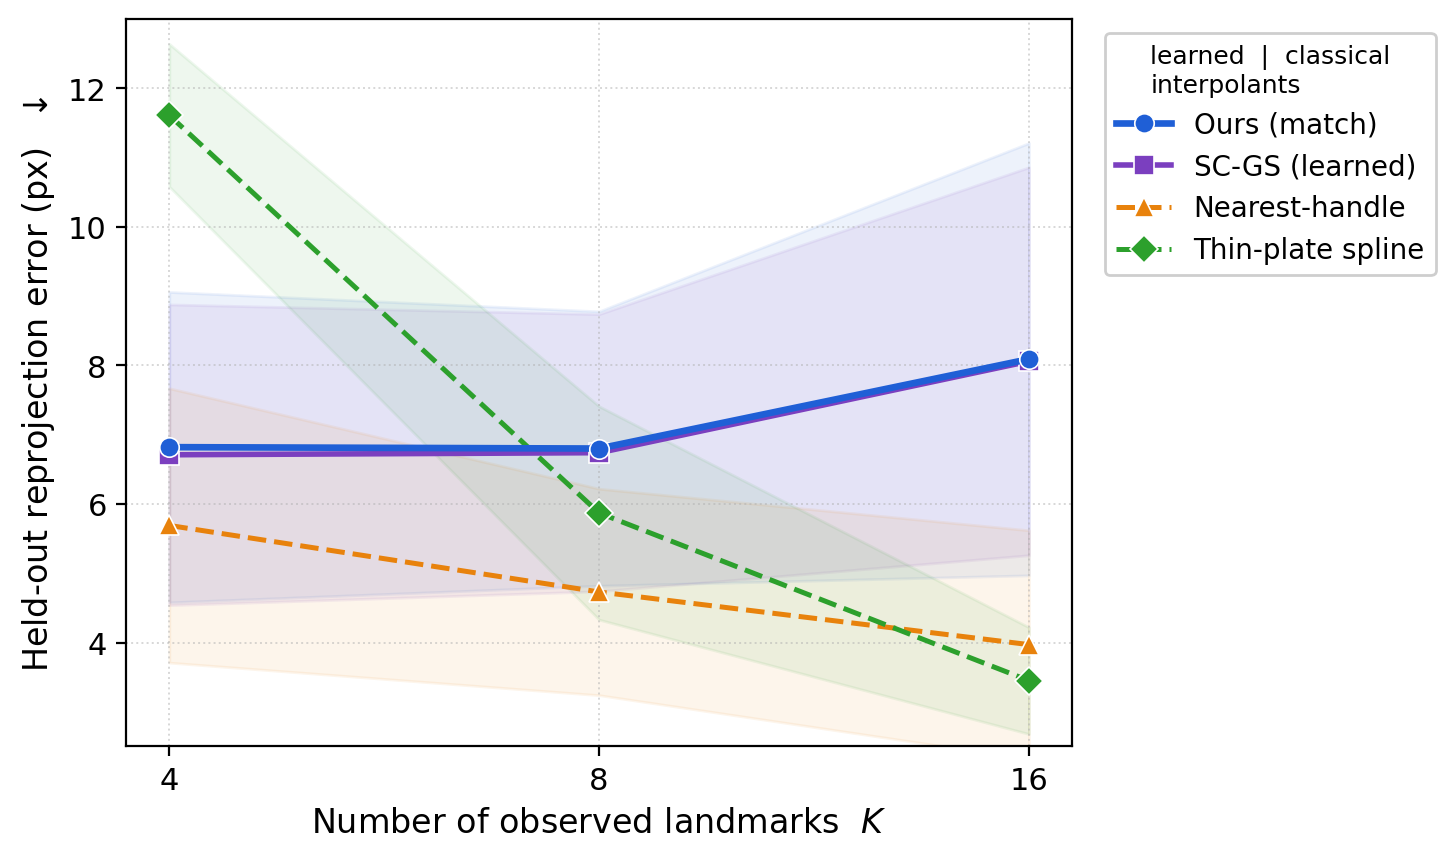
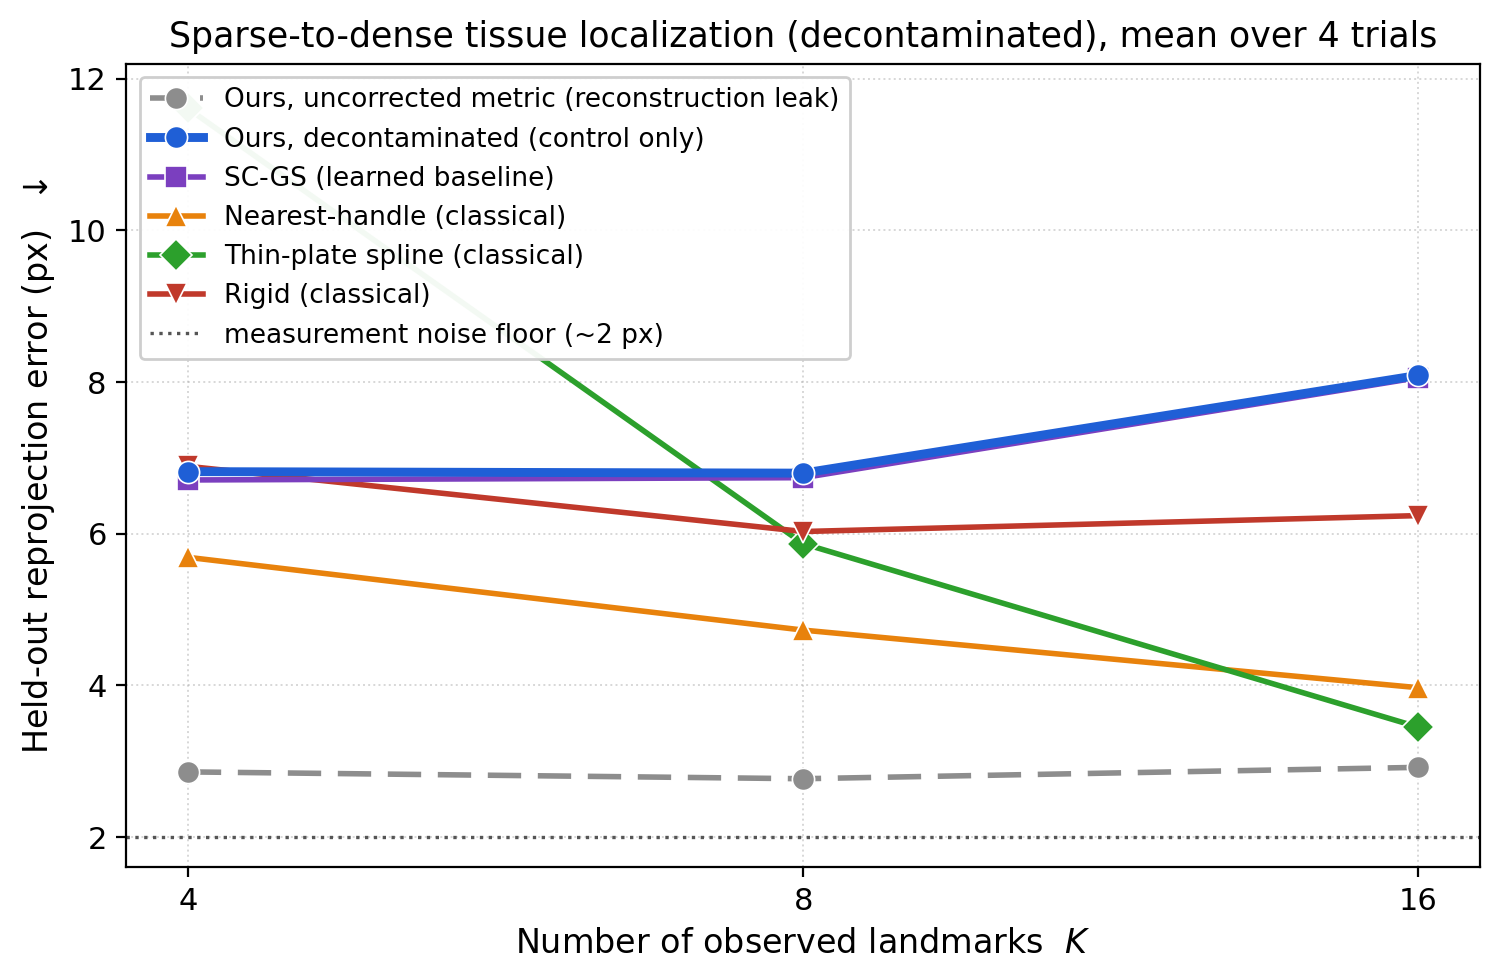
docs: rebuild Figure 5 as the full decontamination-story plot (relabeled)
Restore the richer six-series design (uncorrected/residual-active leak line on
the ~2px noise floor, decontaminated ours, SC-GS, nearest-handle, TPS, rigid)
that tells the §5.3 confound story in one figure, with "naive" relabeled to
"uncorrected" in the legend and title for consistency with the text.

- tools/make_fig5_localization.py rewritten to reproduce the full plot from
  Tables 3–4 (leak = full-model recall, decontaminated = control-only).
- paper.md Fig 5 caption rewritten to describe the leak line + noise floor and
  the decontaminated learned-vs-classical comparison.
- IMPLEMENTATION.md provenance row updated to match.

diff --git a/tools/make_fig5_localization.py b/tools/make_fig5_localization.py
@@ -1,8 +1,13 @@
 """Figure 5 — Sparse-to-dense tissue localization vs. number of observed landmarks K.
 
-Regenerates the localization curve with the finalized terminology (no "naive" label).
-Numbers are the paper's Table 4 cross-trial means +/- SD over four SuPer trials
-(held-out reprojection error in px; lower is better). Output: figures/sparse_to_dense_localization.png
+Full decontamination-story plot (no "naive" label): the uncorrected/residual-active
+"leak" line (grey dashed) sits near the ~2 px noise floor and demonstrates the confound;
+the decontaminated (control-only) curve is the honest measure, compared against the SC-GS
+learned baseline and three classical interpolants (nearest-handle, TPS, rigid).
+
+Numbers: paper Table 3 (uncorrected/full-model leak) and Table 4 (decontaminated learned +
+classical), cross-trial means over four SuPer trials; held-out reprojection error (px, lower
+is better). Output: docs/figures/sparse_to_dense_localization.png
 """
 import os
 import numpy as np
@@ -11,44 +16,47 @@ matplotlib.use("Agg")
 import matplotlib.pyplot as plt
 
 K = np.array([4, 8, 16])
+NOISE_FLOOR = 2.0  # ~frame-0 projection error, measurement noise floor
 
-# (mean, sd) per method, from paper Table 4
-SERIES = {
-    "Ours (match)":     dict(mean=[6.82, 6.80, 8.09], sd=[2.24, 1.98, 3.12],
-                             color="#1f5fd6", marker="o", ls="-",  lw=2.4, z=5),
-    "SC-GS (learned)":  dict(mean=[6.71, 6.74, 8.06], sd=[2.17, 2.00, 2.80],
-                             color="#7b3fbf", marker="s", ls="-",  lw=2.0, z=4),
-    "Nearest-handle":   dict(mean=[5.69, 4.73, 3.97], sd=[1.98, 1.49, 1.65],
-                             color="#e8820c", marker="^", ls="--", lw=1.8, z=3),
-    "Thin-plate spline":dict(mean=[11.61, 5.87, 3.45], sd=[1.03, 1.54, 0.77],
-                             color="#2ca02c", marker="D", ls="--", lw=1.8, z=3),
-}
+# means per series (px). Ordered for a legend that reads: leak, ours, learned, classical.
+SERIES = [
+    # label, means, color, marker, linestyle, linewidth, zorder
+    ("Ours, uncorrected metric (reconstruction leak)", [2.86, 2.77, 2.92],
+        "#8d8d8d", "o", (0, (6, 3)), 2.0, 3),
+    ("Ours, decontaminated (control only)",            [6.82, 6.80, 8.09],
+        "#1f5fd6", "o", "-", 3.2, 6),
+    ("SC-GS (learned baseline)",                       [6.71, 6.74, 8.06],
+        "#7b3fbf", "s", "-", 2.0, 5),
+    ("Nearest-handle (classical)",                     [5.69, 4.73, 3.97],
+        "#e8820c", "^", "-", 2.0, 4),
+    ("Thin-plate spline (classical)",                  [11.61, 5.87, 3.45],
+        "#2ca02c", "D", "-", 2.0, 4),
+    ("Rigid (classical)",                              [6.89, 6.03, 6.24],
+        "#c0392b", "v", "-", 2.0, 4),
+]
 
-fig, ax = plt.subplots(figsize=(7.4, 4.4), dpi=200)
+fig, ax = plt.subplots(figsize=(7.6, 5.0), dpi=200)
 
-for label, s in SERIES.items():
-    mean = np.array(s["mean"], float)
-    sd = np.array(s["sd"], float)
-    ax.plot(K, mean, color=s["color"], marker=s["marker"], linestyle=s["ls"],
-            linewidth=s["lw"], markersize=7, label=label, zorder=s["z"],
+for label, mean, color, marker, ls, lw, z in SERIES:
+    ax.plot(K, mean, color=color, marker=marker, linestyle=ls, linewidth=lw,
+            markersize=8, label=label, zorder=z,
             markeredgecolor="white", markeredgewidth=0.6)
-    # light +/- SD band to convey the ours/SC-GS statistical tie
-    ax.fill_between(K, mean - sd, mean + sd, color=s["color"], alpha=0.08, zorder=1)
+
+# measurement noise floor
+ax.axhline(NOISE_FLOOR, color="#555555", linestyle=":", linewidth=1.2,
+           label=f"measurement noise floor (~{NOISE_FLOOR:.0f} px)", zorder=2)
 
 ax.set_xscale("log", base=2)
 ax.set_xticks(K)
 ax.set_xticklabels([str(k) for k in K])
 ax.set_xlabel("Number of observed landmarks  $K$", fontsize=12)
 ax.set_ylabel("Held-out reprojection error (px)  $\\downarrow$", fontsize=12)
-ax.set_ylim(2.5, 13.0)
+ax.set_ylim(1.6, 12.2)
+ax.set_title("Sparse-to-dense tissue localization (decontaminated), mean over 4 trials",
+             fontsize=12.5)
 ax.grid(True, which="major", linestyle=":", linewidth=0.7, alpha=0.5)
 ax.tick_params(labelsize=11)
-
-# place the legend outside the axes so it never covers the data
-handles, labels = ax.get_legend_handles_labels()
-ax.legend(handles, labels, fontsize=10, frameon=True, framealpha=0.95,
-          loc="upper left", bbox_to_anchor=(1.02, 1.0),
-          title="learned  |  classical\ninterpolants", title_fontsize=9)
+ax.legend(fontsize=9.5, frameon=True, framealpha=0.95, loc="upper left")
 
 fig.tight_layout()
 

diff --git a/docs/paper.md b/docs/paper.md
@@ -390,10 +390,15 @@ Two observations:
 
 ![Localization accuracy curve](figures/sparse_to_dense_localization.png)
 
-*Figure 5. Sparse-to-dense tissue localization vs. number of landmarks $K$ (mean over four trials). Our
-method (solid blue) and SC-GS (purple) are statistically tied, with our full system delivering superior
-reconstruction and tracking. Classical geometric functions (nearest-handle, orange; TPS, green) are
-purpose-built interpolants that operate in a different regime and do not provide editability.*
+*Figure 5. Sparse-to-dense tissue localization vs. number of observed landmarks $K$ (mean over four trials;
+held-out reprojection error, lower is better). The decontamination is the point: with the per-Gaussian
+residual left active, the **uncorrected** metric (grey dashed) collapses onto the ~2 px measurement-noise
+floor — it is measuring reconstruction recall, not landmark-driven inference. Once decontaminated (control
+only), our method (solid blue) and the SC-GS learned baseline (purple) are statistically tied, and our full
+system additionally delivers superior reconstruction and tracking. The classical interpolants
+(nearest-handle, orange; TPS, green; rigid, red) are purpose-built spatial functions that operate in a
+fundamentally different regime — no learned scene structure and no ability to author novel edits — so they
+are not directly comparable to a learned editable representation.*
 
 **Surface localization and editing are two sides of the same capability.** When landmarks are observed,
 the control-node graph infers where the rest of the surface is — directly supporting AR overlay placement

diff --git a/docs/IMPLEMENTATION.md b/docs/IMPLEMENTATION.md
@@ -350,7 +350,7 @@ mechanism is not load-bearing. (`gnn_type` is a flag in [node_deformation.py](..
 | Fig. 2 drag-to-edit | `figures/edit_{before,after,diff}.png` | gentle edit (`after_0`) + magnitude heatmap |
 | Fig. 3 pulling reconstruction | `figures/recon_pulling_triptych.png` | GT\|Ours\|error from render dumps |
 | Fig. 4 decontamination (qual) | `figures/control_from_tracks_qual.png` | uncorrected (residual-active) vs decontaminated (control-only) at trial 3 f57; `control_viz{,_residual}.json` |
-| Fig. 5 sparse-to-dense localization curve | `figures/sparse_to_dense_localization.png` | 4-trial mean (Table 4); learned (ours/SC-GS) vs classical interpolants (nearest-handle, TPS); regen via `tools/make_fig5_localization.py` |
+| Fig. 5 sparse-to-dense localization curve | `figures/sparse_to_dense_localization.png` | 4-trial mean (Tables 3–4); uncorrected leak (grey dashed) + ~2px noise floor vs decontaminated learned (ours/SC-GS) vs classical interpolants (nearest-handle, TPS, rigid); regen via `tools/make_fig5_localization.py` |
 | Fig. 6 SuPer reconstruction | `figures/recon_super_t3_triptych.png` | GT\|Ours\|error |
 | GT-vs-Ours videos | `figures/recon_super_trial{3,4,8,9}_gt_vs_ours.mp4`, `recon_pulling_gt_vs_ours.mp4` | ffmpeg hstack of `ours_video.mp4` \| `gt_video.mp4` |
 